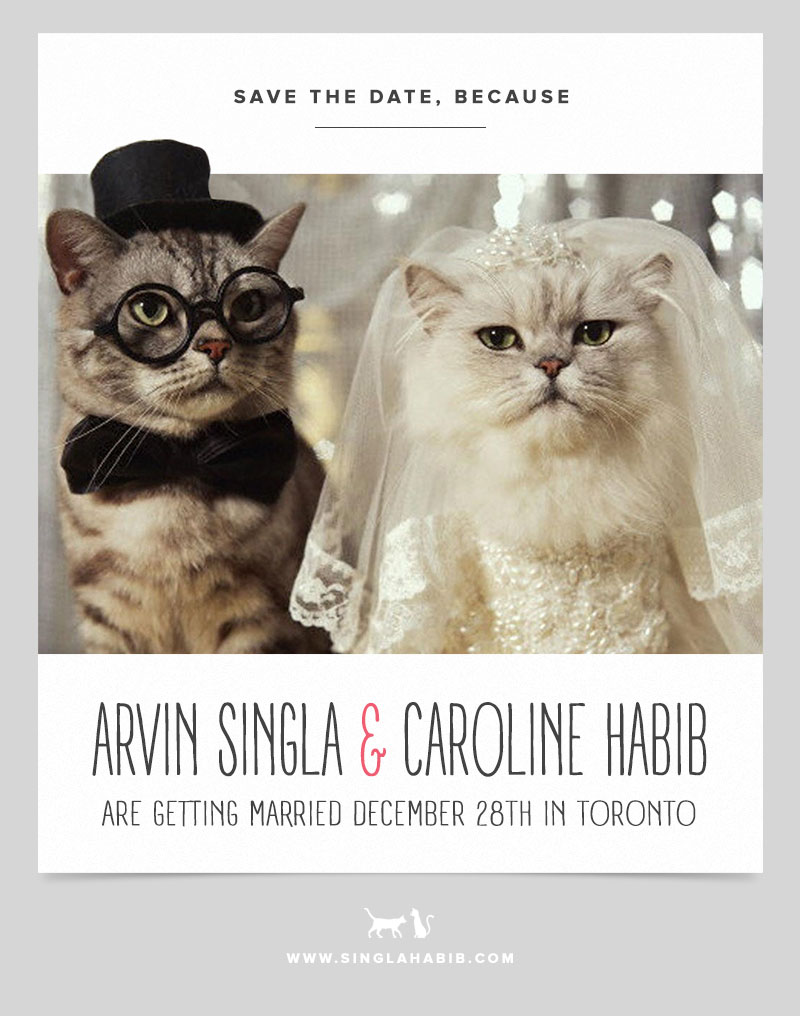
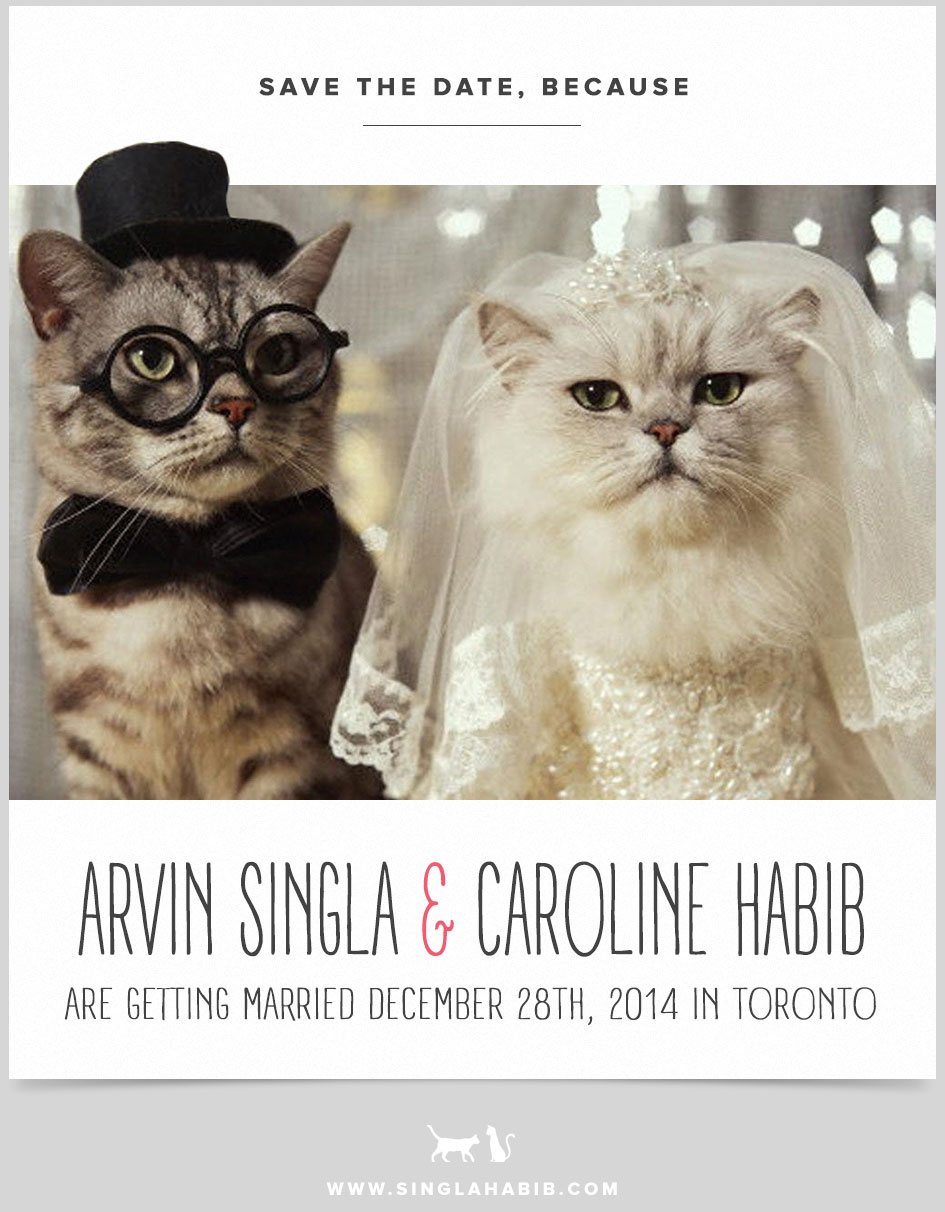
Updated image to include year of the wedding.

diff --git a/index.html b/index.html
@@ -12,7 +12,7 @@
     body {
       background-color: #d6d6d6;
       text-align: center;
-      margin: 0;
+      margin: 20px 0;
       padding: 0;
     }
 
